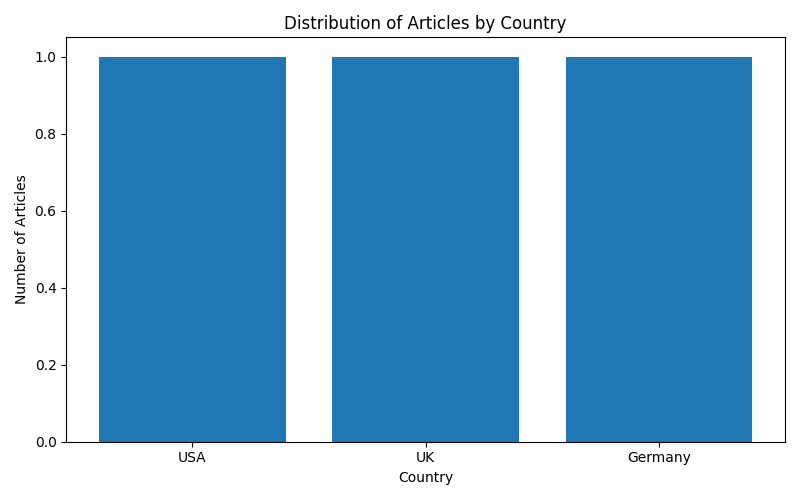
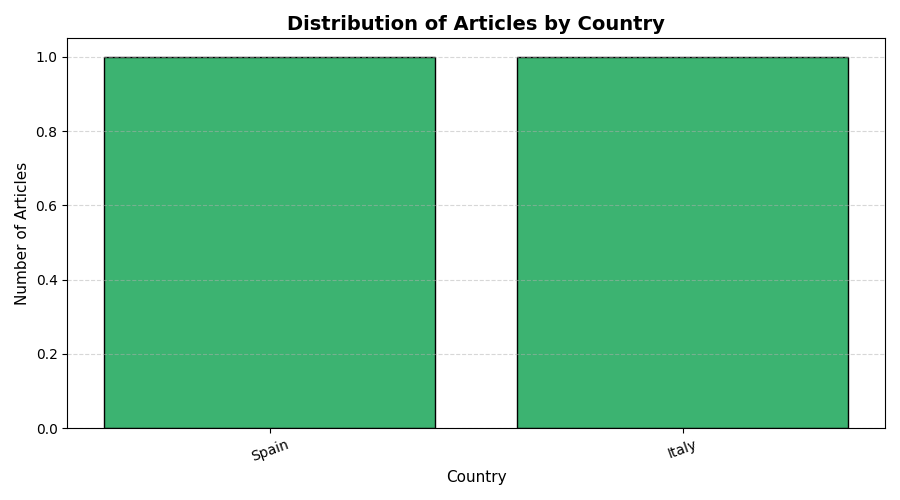
improved charts an design

diff --git a/article_search.py b/article_search.py
@@ -1,41 +1,118 @@
 def search_articles(keyword, year_from, year_to):
     articles = [
         {
-            "title": f"Recent Advances in {keyword}",
+            "title": "Recent Advances in Cybersecurity",
             "authors": "John Smith, Anna Brown",
             "year": 2021,
             "doi": "10.1000/xyz123",
-            "abstract": f"This article discusses recent advances in {keyword}.",
+            "abstract": "This article discusses recent advances in cybersecurity.",
             "citations": 45,
             "country": "USA",
-            "apa_citation": f"Smith, J., & Brown, A. (2021). Recent Advances in {keyword}. Journal of Network Research."
+            "apa_citation": "Smith, J., & Brown, A. (2021). Recent Advances in Cybersecurity. Journal of Network Research."
         },
         {
-            "title": f"{keyword} in Modern Systems",
+            "title": "Cybersecurity in Modern Systems",
             "authors": "Maria Lopez, David Wilson",
             "year": 2023,
             "doi": "10.1000/xyz456",
-            "abstract": f"This paper analyzes the role of {keyword} in modern systems.",
+            "abstract": "This paper analyzes the role of cybersecurity in modern systems.",
             "citations": 32,
             "country": "UK",
-            "apa_citation": f"Lopez, M., & Wilson, D. (2023). {keyword} in Modern Systems. International Journal of Security Studies."
+            "apa_citation": "Lopez, M., & Wilson, D. (2023). Cybersecurity in Modern Systems. International Journal of Security Studies."
         },
         {
-            "title": f"Challenges of {keyword}",
+            "title": "Challenges of Cybersecurity",
             "authors": "Emily Johnson, Robert White",
             "year": 2020,
             "doi": "10.1000/xyz789",
-            "abstract": f"This article explores the main challenges of {keyword}.",
+            "abstract": "This article explores the main challenges of cybersecurity.",
             "citations": 27,
             "country": "Germany",
-            "apa_citation": f"Johnson, E., & White, R. (2020). Challenges of {keyword}. European Security Review."
+            "apa_citation": "Johnson, E., & White, R. (2020). Challenges of Cybersecurity. European Security Review."
+        },
+        {
+            "title": "AI-Based Intrusion Detection Systems",
+            "authors": "Laura Green, Mark Hall",
+            "year": 2022,
+            "doi": "10.1000/xyz101",
+            "abstract": "This study examines artificial intelligence techniques for intrusion detection systems.",
+            "citations": 51,
+            "country": "USA",
+            "apa_citation": "Green, L., & Hall, M. (2022). AI-Based Intrusion Detection Systems. Computer Security Journal."
+        },
+        {
+            "title": "Secure Communication Protocols in Distributed Networks",
+            "authors": "Carlos Ruiz, Emma Scott",
+            "year": 2021,
+            "doi": "10.1000/xyz102",
+            "abstract": "This article reviews secure communication protocols used in distributed networks.",
+            "citations": 39,
+            "country": "Spain",
+            "apa_citation": "Ruiz, C., & Scott, E. (2021). Secure Communication Protocols in Distributed Networks. Journal of Communication Security."
+        },
+        {
+            "title": "Malware Analysis Techniques for Enterprise Systems",
+            "authors": "Kevin Adams, Sophie Turner",
+            "year": 2022,
+            "doi": "10.1000/xyz103",
+            "abstract": "This paper presents modern malware analysis techniques for enterprise systems.",
+            "citations": 44,
+            "country": "France",
+            "apa_citation": "Adams, K., & Turner, S. (2022). Malware Analysis Techniques for Enterprise Systems. Enterprise Security Review."
+        },
+        {
+            "title": "Network Security Trends in Cloud Computing",
+            "authors": "Olivia Clark, Daniel Evans",
+            "year": 2023,
+            "doi": "10.1000/xyz104",
+            "abstract": "This article studies network security trends in cloud computing environments.",
+            "citations": 36,
+            "country": "Canada",
+            "apa_citation": "Clark, O., & Evans, D. (2023). Network Security Trends in Cloud Computing. Cloud Systems Journal."
+        },
+        {
+            "title": "Intrusion Detection in IoT Environments",
+            "authors": "Nina Walker, Peter Lewis",
+            "year": 2020,
+            "doi": "10.1000/xyz105",
+            "abstract": "This paper investigates intrusion detection in Internet of Things environments.",
+            "citations": 29,
+            "country": "Germany",
+            "apa_citation": "Walker, N., & Lewis, P. (2020). Intrusion Detection in IoT Environments. IoT Security Journal."
+        },
+        {
+            "title": "Secure Network Architectures for Smart Cities",
+            "authors": "Helen Young, James Harris",
+            "year": 2021,
+            "doi": "10.1000/xyz106",
+            "abstract": "This article presents secure network architectures for smart cities.",
+            "citations": 22,
+            "country": "Italy",
+            "apa_citation": "Young, H., & Harris, J. (2021). Secure Network Architectures for Smart Cities. Smart Infrastructure Review."
+        },
+        {
+            "title": "Cybersecurity Risk Assessment in Healthcare Networks",
+            "authors": "Patricia King, Thomas Baker",
+            "year": 2022,
+            "doi": "10.1000/xyz107",
+            "abstract": "This research focuses on cybersecurity risk assessment in healthcare networks.",
+            "citations": 41,
+            "country": "USA",
+            "apa_citation": "King, P., & Baker, T. (2022). Cybersecurity Risk Assessment in Healthcare Networks. Health Security Journal."
         }
     ]
+
+    keyword = keyword.lower().strip()
+    year_from = int(year_from)
+    year_to = int(year_to)
 
     filtered_articles = []
 
     for article in articles:
-        if int(year_from) <= article["year"] <= int(year_to):
+        title_match = keyword in article["title"].lower()
+        abstract_match = keyword in article["abstract"].lower()
+
+        if (title_match or abstract_match) and year_from <= article["year"] <= year_to:
             filtered_articles.append(article)
 
     return filtered_articles

diff --git a/charts.py b/charts.py
@@ -12,11 +12,19 @@ def generate_charts(articles):
         year = article["year"]
         years[year] = years.get(year, 0) + 1
 
-    plt.figure(figsize=(8, 5))
-    plt.bar(years.keys(), years.values())
-    plt.title("Distribution of Articles by Publication Year")
-    plt.xlabel("Year")
-    plt.ylabel("Number of Articles")
+    sorted_years = dict(sorted(years.items()))
+
+    plt.figure(figsize=(9, 5))
+    plt.bar(
+        sorted_years.keys(),
+        sorted_years.values(),
+        color="steelblue",
+        edgecolor="black"
+    )
+    plt.title("Distribution of Articles by Publication Year", fontsize=14, fontweight="bold")
+    plt.xlabel("Year", fontsize=11)
+    plt.ylabel("Number of Articles", fontsize=11)
+    plt.grid(axis="y", linestyle="--", alpha=0.5)
     plt.tight_layout()
     plt.savefig("results/articles_by_year.png")
     plt.close()
@@ -29,11 +37,20 @@ def generate_charts(articles):
         country = article["country"]
         countries[country] = countries.get(country, 0) + 1
 
-    plt.figure(figsize=(8, 5))
-    plt.bar(countries.keys(), countries.values())
-    plt.title("Distribution of Articles by Country")
-    plt.xlabel("Country")
-    plt.ylabel("Number of Articles")
+    sorted_countries = dict(sorted(countries.items(), key=lambda item: item[1], reverse=True))
+
+    plt.figure(figsize=(9, 5))
+    plt.bar(
+        sorted_countries.keys(),
+        sorted_countries.values(),
+        color="mediumseagreen",
+        edgecolor="black"
+    )
+    plt.title("Distribution of Articles by Country", fontsize=14, fontweight="bold")
+    plt.xlabel("Country", fontsize=11)
+    plt.ylabel("Number of Articles", fontsize=11)
+    plt.grid(axis="y", linestyle="--", alpha=0.5)
+    plt.xticks(rotation=20)
     plt.tight_layout()
     plt.savefig("results/articles_by_country.png")
     plt.close()
@@ -44,12 +61,18 @@ def generate_charts(articles):
     titles = [article["title"] for article in articles]
     citations = [article["citations"] for article in articles]
 
-    plt.figure(figsize=(10, 5))
-    plt.bar(titles, citations)
-    plt.title("Number of Citations per Article")
-    plt.xlabel("Article")
-    plt.ylabel("Citations")
-    plt.xticks(rotation=20, ha="right")
+    plt.figure(figsize=(11, 6))
+    plt.bar(
+        titles,
+        citations,
+        color="salmon",
+        edgecolor="black"
+    )
+    plt.title("Number of Citations per Article", fontsize=14, fontweight="bold")
+    plt.xlabel("Article", fontsize=11)
+    plt.ylabel("Citations", fontsize=11)
+    plt.grid(axis="y", linestyle="--", alpha=0.5)
+    plt.xticks(rotation=25, ha="right")
     plt.tight_layout()
     plt.savefig("results/citations_per_article.png")
     plt.close()
